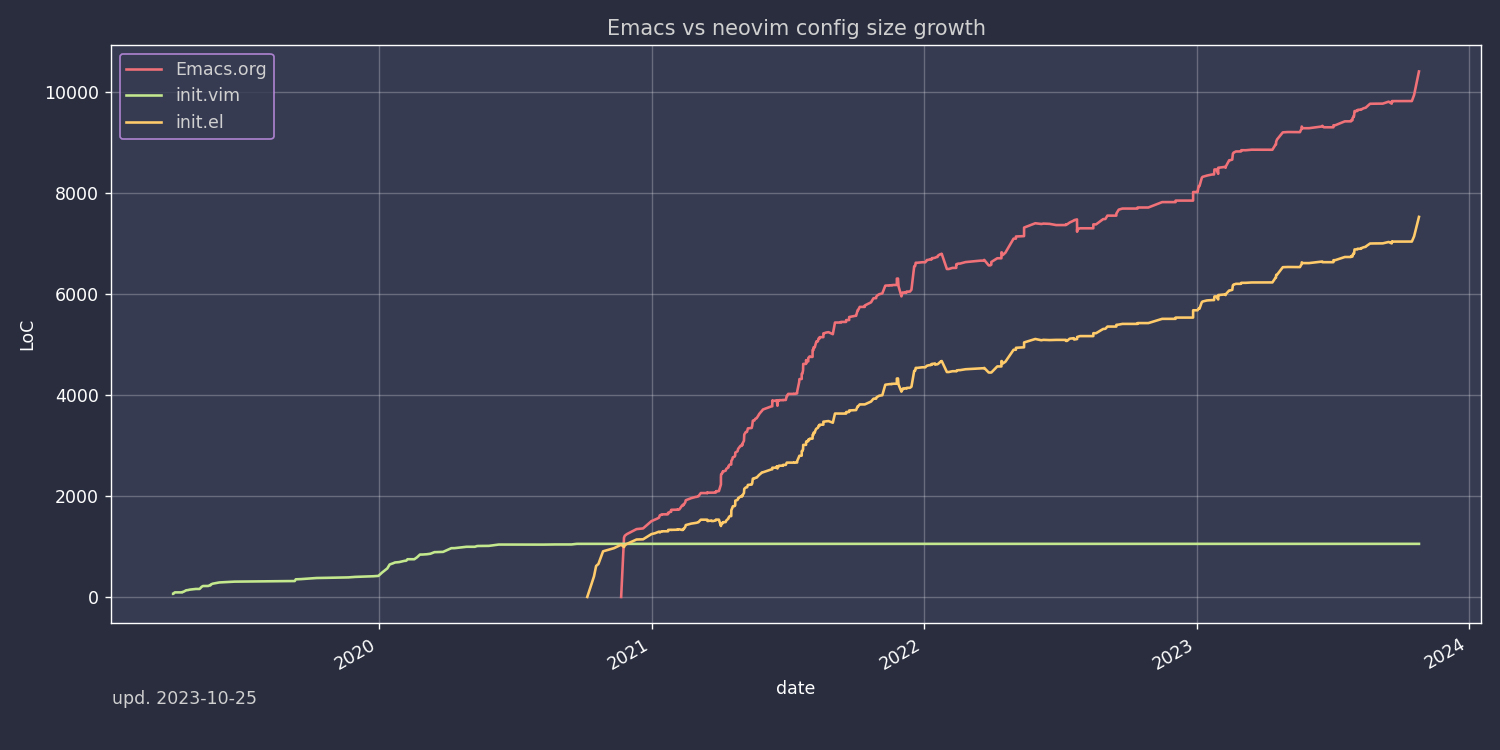
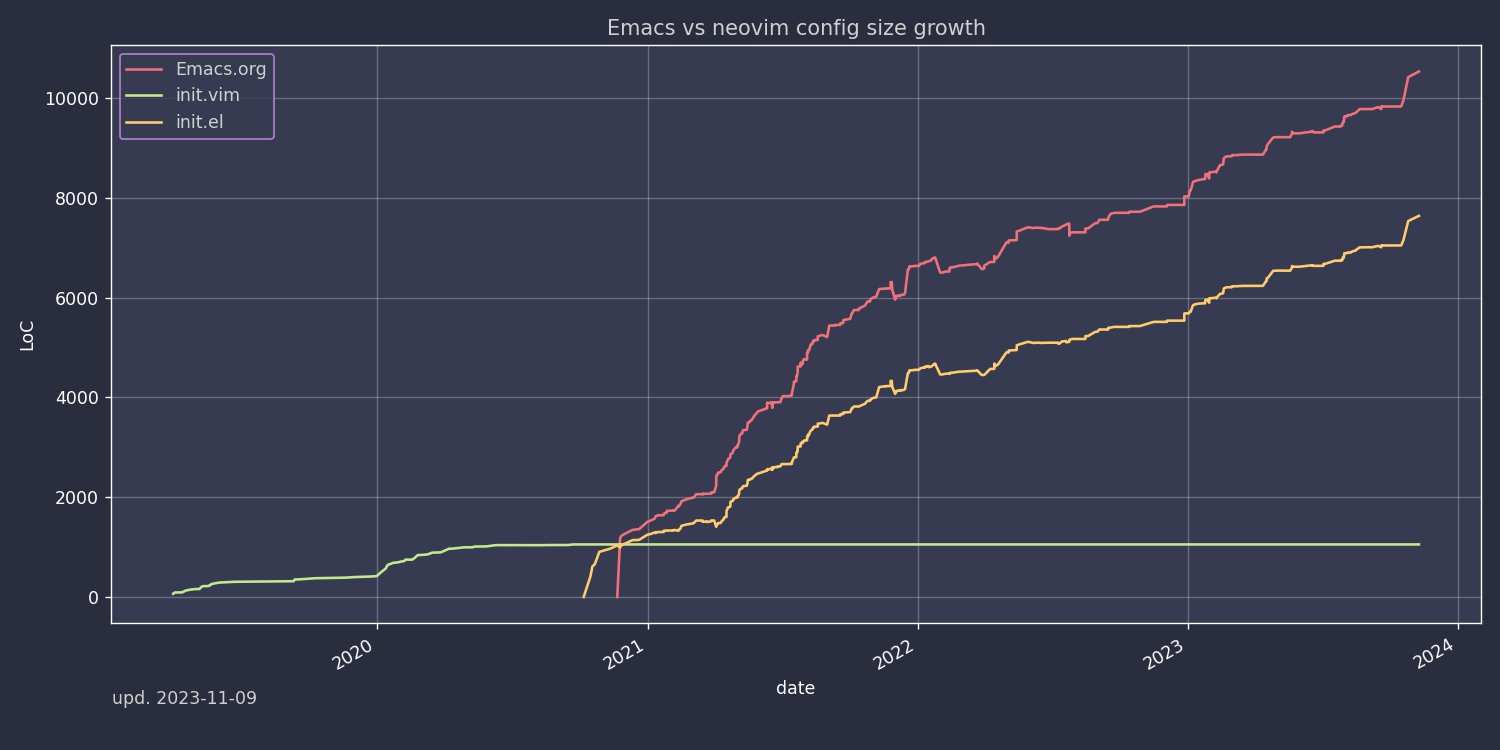
deploy: ec9d4f60e5a25ce1c0262b4c3c3db14015a5740e

diff --git a/configs/emacs/index.html b/configs/emacs/index.html
@@ -3562,7 +3562,19 @@ Emacs is also particularly great at writing Lisp code, e.g. Clojure, Common Lisp
 <!--listend-->
 <div class="highlight"><pre tabindex="0" style=";-moz-tab-size:4;-o-tab-size:4;tab-size:4;"><code class="language-emacs-lisp" data-lang="emacs-lisp"><span style="display:flex;"><span>(<span style="color:#008000">use-package</span> <span style="color:#19177c">restclient</span>
 </span></span><span style="display:flex;"><span>  <span style="color:#008000">:if</span> (<span style="color:#19177c">not</span> <span style="color:#19177c">my/remote-server</span>)
-</span></span><span style="display:flex;"><span>  <span style="color:#008000">:straight</span> <span style="color:#800">t</span>)
+</span></span><span style="display:flex;"><span>  <span style="color:#008000">:straight</span> <span style="color:#800">t</span>
+</span></span><span style="display:flex;"><span>  <span style="color:#008000">:config</span>
+</span></span><span style="display:flex;"><span>  (<span style="color:#19177c">general-define-key</span>
+</span></span><span style="display:flex;"><span>   <span style="color:#008000">:keymaps</span> <span style="color:#19177c">&#39;restclient-mode-map</span>
+</span></span><span style="display:flex;"><span>   <span style="color:#008000">:states</span> <span style="color:#666">&#39;</span>(<span style="color:#19177c">normal</span> <span style="color:#19177c">visual</span>)
+</span></span><span style="display:flex;"><span>   <span style="color:#ba2121">&#34;RET&#34;</span> <span style="color:#00f">#&#39;</span><span style="color:#19177c">restclient-http-send-current</span>
+</span></span><span style="display:flex;"><span>   <span style="color:#ba2121">&#34;M-RET&#34;</span> <span style="color:#00f">#&#39;</span><span style="color:#19177c">restclient-http-send-current-stay-in-window</span>
+</span></span><span style="display:flex;"><span>   <span style="color:#ba2121">&#34;y&#34;</span> <span style="color:#800">nil</span>
+</span></span><span style="display:flex;"><span>   <span style="color:#ba2121">&#34;M-y&#34;</span> <span style="color:#00f">#&#39;</span><span style="color:#19177c">restclient-copy-curl-command</span>)
+</span></span><span style="display:flex;"><span>  (<span style="color:#19177c">general-define-key</span>
+</span></span><span style="display:flex;"><span>   <span style="color:#008000">:keymaps</span> <span style="color:#19177c">&#39;restclient-response-mode-map</span>
+</span></span><span style="display:flex;"><span>   <span style="color:#008000">:states</span> <span style="color:#666">&#39;</span>(<span style="color:#19177c">normal</span> <span style="color:#19177c">visual</span>)
+</span></span><span style="display:flex;"><span>   <span style="color:#ba2121">&#34;q&#34;</span> <span style="color:#00f">#&#39;</span><span style="color:#19177c">quit-window</span>))
 </span></span><span style="display:flex;"><span>
 </span></span><span style="display:flex;"><span>(<span style="color:#008000">use-package</span> <span style="color:#19177c">ob-restclient</span>
 </span></span><span style="display:flex;"><span>  <span style="color:#008000">:after</span> (<span style="color:#19177c">org</span> <span style="color:#19177c">restclient</span>)
@@ -4254,7 +4266,51 @@ Emacs is also particularly great at writing Lisp code, e.g. Clojure, Common Lisp
 </span></span><span style="display:flex;"><span>  (<span style="color:#19177c">advice-add</span> <span style="color:#00f">#&#39;</span><span style="color:#19177c">org-ql-view--format-element</span> <span style="color:#008000">:override</span> <span style="color:#00f">#&#39;</span><span style="color:#19177c">my/org-ql-view--format-element-override</span>))
 </span></span></code></pre></div><h5 id="aggregate-clocked-time">Aggregate clocked time</h5>
 <p>This turned out to be kinda complicated&hellip; I want to produce a report that aggregates my clocked time. Maybe I&rsquo;ll extract the below into a separate package, but it&rsquo;s so tightly bound to my needs so I&rsquo;m not sure if there&rsquo;s any value in it.</p>
-<p>First, in order to implement the aggregation I need a function to process alists:</p>
+<p>Work-in-progress.</p>
+<div class="highlight"><pre tabindex="0" style=";-moz-tab-size:4;-o-tab-size:4;tab-size:4;"><code class="language-emacs-lisp" data-lang="emacs-lisp"><span style="display:flex;"><span>(<span style="color:#008000">defun</span> <span style="color:#19177c">my/org-ql--get-clock-data-parse-buffer</span> ()
+</span></span><span style="display:flex;"><span>  (<span style="color:#008000">let</span> (<span style="color:#19177c">res</span>)
+</span></span><span style="display:flex;"><span>    (<span style="color:#19177c">org-element-map</span> (<span style="color:#19177c">org-element-parse-buffer</span>) <span style="color:#19177c">&#39;clock</span>
+</span></span><span style="display:flex;"><span>      (<span style="color:#008000">lambda</span> (<span style="color:#19177c">clock</span>)
+</span></span><span style="display:flex;"><span>	(<span style="color:#008000">let</span> ((<span style="color:#19177c">start</span> (<span style="color:#19177c">time-convert</span>
+</span></span><span style="display:flex;"><span>		      (<span style="color:#19177c">org-timestamp-to-time</span> (<span style="color:#19177c">org-element-property</span> <span style="color:#008000">:value</span> <span style="color:#19177c">clock</span>))
+</span></span><span style="display:flex;"><span>		      <span style="color:#19177c">&#39;integer</span>))
+</span></span><span style="display:flex;"><span>	      (<span style="color:#19177c">end</span> (<span style="color:#19177c">time-convert</span>
+</span></span><span style="display:flex;"><span>		    (<span style="color:#19177c">org-timestamp-to-time</span> (<span style="color:#19177c">org-element-property</span> <span style="color:#008000">:value</span> <span style="color:#19177c">clock</span>) <span style="color:#800">t</span>)
+</span></span><span style="display:flex;"><span>		    <span style="color:#19177c">&#39;integer</span>)))
+</span></span><span style="display:flex;"><span>	  (<span style="color:#008000">save-excursion</span>
+</span></span><span style="display:flex;"><span>	    (<span style="color:#19177c">org-back-to-heading</span> <span style="color:#800">t</span>)
+</span></span><span style="display:flex;"><span>	    (<span style="color:#008000">let*</span> ((<span style="color:#19177c">headline</span> (<span style="color:#19177c">org-element-at-point-no-context</span>))
+</span></span><span style="display:flex;"><span>		   (<span style="color:#19177c">tags-val</span> (<span style="color:#19177c">org-ql--tags-at</span> (<span style="color:#00f">point</span>)))
+</span></span><span style="display:flex;"><span>		   (<span style="color:#19177c">tags</span> (<span style="color:#19177c">seq-filter</span>
+</span></span><span style="display:flex;"><span>			  <span style="color:#00f">#&#39;stringp</span> <span style="color:#408080;font-style:italic">;; to filter out `org-ql-nil&#39;</span>
+</span></span><span style="display:flex;"><span>			  (<span style="color:#00f">append</span> (<span style="color:#008000">unless</span> (<span style="color:#00f">eq</span> (<span style="color:#00f">car</span> <span style="color:#19177c">tags-val</span>) <span style="color:#19177c">&#39;org-ql-nil</span>)
+</span></span><span style="display:flex;"><span>				    (<span style="color:#00f">car</span> <span style="color:#19177c">tags-val</span>))
+</span></span><span style="display:flex;"><span>				  (<span style="color:#008000">unless</span> (<span style="color:#00f">eq</span> (<span style="color:#00f">cdr</span> <span style="color:#19177c">tags-val</span>) <span style="color:#19177c">&#39;org-ql-nil</span>)
+</span></span><span style="display:flex;"><span>				    (<span style="color:#00f">cdr</span> <span style="color:#19177c">tags-val</span>)))))
+</span></span><span style="display:flex;"><span>		   (<span style="color:#19177c">filename</span> (<span style="color:#19177c">f-filename</span>
+</span></span><span style="display:flex;"><span>			      (<span style="color:#00f">buffer-file-name</span>)))
+</span></span><span style="display:flex;"><span>		   (<span style="color:#19177c">outline-path</span> (<span style="color:#00f">mapcar</span>
+</span></span><span style="display:flex;"><span>				  <span style="color:#00f">#&#39;substring-no-properties</span>
+</span></span><span style="display:flex;"><span>				  (<span style="color:#19177c">org-ql--outline-path</span>)))
+</span></span><span style="display:flex;"><span>		   (<span style="color:#19177c">category</span> (<span style="color:#19177c">org-get-category</span>)))
+</span></span><span style="display:flex;"><span>	      (<span style="color:#008000">push</span>
+</span></span><span style="display:flex;"><span>	       <span style="color:#666">`</span>((<span style="color:#008000">:start</span> <span style="color:#666">.</span> <span style="color:#666">,</span><span style="color:#19177c">start</span>)
+</span></span><span style="display:flex;"><span>		 (<span style="color:#008000">:end</span> <span style="color:#666">.</span> <span style="color:#666">,</span><span style="color:#19177c">end</span>)
+</span></span><span style="display:flex;"><span>		 (<span style="color:#008000">:headline</span> <span style="color:#666">.</span> <span style="color:#666">,</span><span style="color:#19177c">headline</span>)
+</span></span><span style="display:flex;"><span>		 (<span style="color:#008000">:tags</span> <span style="color:#666">.</span> <span style="color:#666">,</span><span style="color:#19177c">tags</span>)
+</span></span><span style="display:flex;"><span>		 (<span style="color:#008000">:filename</span> <span style="color:#666">.</span> <span style="color:#666">,</span><span style="color:#19177c">filename</span>)
+</span></span><span style="display:flex;"><span>		 (<span style="color:#008000">:outline-path</span> <span style="color:#666">.</span> <span style="color:#666">,</span><span style="color:#19177c">outline-path</span>)
+</span></span><span style="display:flex;"><span>		 (<span style="color:#008000">:category</span> <span style="color:#666">.</span> <span style="color:#666">,</span><span style="color:#19177c">category</span>))
+</span></span><span style="display:flex;"><span>	       <span style="color:#19177c">res</span>))))))
+</span></span><span style="display:flex;"><span>    <span style="color:#19177c">res</span>))
+</span></span><span style="display:flex;"><span>
+</span></span><span style="display:flex;"><span>(<span style="color:#008000">defun</span> <span style="color:#19177c">my/org-ql--get-clock-data</span> ()
+</span></span><span style="display:flex;"><span>  (<span style="color:#008000">let</span> (<span style="color:#19177c">res</span>)
+</span></span><span style="display:flex;"><span>    (<span style="color:#008000">dolist</span> (<span style="color:#19177c">file</span> (<span style="color:#19177c">org-agenda-files</span>))
+</span></span><span style="display:flex;"><span>      (<span style="color:#008000">with-current-buffer</span> (<span style="color:#19177c">find-file-noselect</span> <span style="color:#19177c">file</span>)
+</span></span><span style="display:flex;"><span>	(<span style="color:#008000">setq</span> <span style="color:#19177c">res</span> (<span style="color:#00f">append</span> <span style="color:#19177c">res</span> (<span style="color:#19177c">my/org-ql--get-clock-data-parse-buffer</span>)))))
+</span></span><span style="display:flex;"><span>    <span style="color:#19177c">res</span>))
+</span></span></code></pre></div><p>A function to aggregate on alists:</p>
 <div class="highlight"><pre tabindex="0" style=";-moz-tab-size:4;-o-tab-size:4;tab-size:4;"><code class="language-emacs-lisp" data-lang="emacs-lisp"><span style="display:flex;"><span>(<span style="color:#008000">defun</span> <span style="color:#19177c">my/alist-agg</span> (<span style="color:#19177c">path</span> <span style="color:#19177c">alist</span> <span style="color:#19177c">value</span>)
 </span></span><span style="display:flex;"><span>  <span style="color:#ba2121">&#34;Traverse ALIST by PATH, adding VALUE to each node.
 </span></span></span><span style="display:flex;"><span><span style="color:#ba2121">
@@ -4497,6 +4553,12 @@ Emacs is also particularly great at writing Lisp code, e.g. Clojure, Common Lisp
 </span></span><span style="display:flex;"><span>		   (<span style="color:#19177c">org-ql--add-markers</span>
 </span></span><span style="display:flex;"><span>		    (<span style="color:#19177c">org-element-at-point</span>)))))
 </span></span><span style="display:flex;"><span>    (<span style="color:#19177c">my/org-ql-meeting-tasks</span> <span style="color:#19177c">meeting</span>)))
+</span></span><span style="display:flex;"><span>
+</span></span><span style="display:flex;"><span>(<span style="color:#008000">with-eval-after-load</span> <span style="color:#19177c">&#39;org-agenda</span>
+</span></span><span style="display:flex;"><span>  (<span style="color:#19177c">general-define-key</span>
+</span></span><span style="display:flex;"><span>   <span style="color:#008000">:keymaps</span> <span style="color:#19177c">&#39;org-agenda-mode-map</span>
+</span></span><span style="display:flex;"><span>   <span style="color:#008000">:states</span> <span style="color:#666">&#39;</span>(<span style="color:#19177c">normal</span> <span style="color:#19177c">motion</span>)
+</span></span><span style="display:flex;"><span>   <span style="color:#ba2121">&#34;gm&#34;</span> <span style="color:#00f">#&#39;</span><span style="color:#19177c">my/org-ql-meeting-tasks-agenda</span>))
 </span></span></code></pre></div><h5 id="tracking-habits">Tracking habits</h5>
 <p>Let&rsquo;s see how this goes.</p>
 <p>References:</p>
@@ -8392,6 +8454,44 @@ Some other optimization settings:</p>
 </span></span><span style="display:flex;"><span>		  <span style="color:#19177c">&#39;telega-image-mode</span> <span style="color:#19177c">&#39;telega-webpage-mode</span>))
 </span></span><span style="display:flex;"><span>
 </span></span><span style="display:flex;"><span>(<span style="color:#008000">setq</span> <span style="color:#19177c">telega-online-status-function</span> <span style="color:#00f">#&#39;</span><span style="color:#19177c">my/telega-online-status</span>)
+</span></span></code></pre></div><p>Switch to topic in forum chats.</p>
+<div class="highlight"><pre tabindex="0" style=";-moz-tab-size:4;-o-tab-size:4;tab-size:4;"><code class="language-emacs-lisp" data-lang="emacs-lisp"><span style="display:flex;"><span>(<span style="color:#008000">defun</span> <span style="color:#19177c">my/telega-switch-to-topic</span> ()
+</span></span><span style="display:flex;"><span>  (<span style="color:#008000">interactive</span>)
+</span></span><span style="display:flex;"><span>  (<span style="color:#008000">let*</span> ((<span style="color:#19177c">topics-data</span> (<span style="color:#00f">gethash</span>
+</span></span><span style="display:flex;"><span>		       (<span style="color:#00f">plist-get</span> <span style="color:#19177c">telega-chatbuf--chat</span> <span style="color:#008000">:id</span>)
+</span></span><span style="display:flex;"><span>		       <span style="color:#19177c">telega--chat-topics</span>))
+</span></span><span style="display:flex;"><span>	 (<span style="color:#19177c">topics-string</span>
+</span></span><span style="display:flex;"><span>	  (<span style="color:#00f">mapcar</span>
+</span></span><span style="display:flex;"><span>	   (<span style="color:#008000">lambda</span> (<span style="color:#19177c">topic</span>)
+</span></span><span style="display:flex;"><span>	     (<span style="color:#008000">let*</span> ((<span style="color:#19177c">name</span> (<span style="color:#00f">plist-get</span> (<span style="color:#00f">plist-get</span> <span style="color:#19177c">topic</span> <span style="color:#008000">:info</span>) <span style="color:#008000">:name</span>))
+</span></span><span style="display:flex;"><span>		    (<span style="color:#19177c">unread-count</span> (<span style="color:#00f">plist-get</span> <span style="color:#19177c">topic</span> <span style="color:#008000">:unread_count</span>))
+</span></span><span style="display:flex;"><span>		    (<span style="color:#19177c">name-string</span> (<span style="color:#008000">with-temp-buffer</span>
+</span></span><span style="display:flex;"><span>				   (<span style="color:#19177c">telega-ins--topic-title</span> <span style="color:#19177c">topic</span> <span style="color:#19177c">&#39;with-icon</span>)
+</span></span><span style="display:flex;"><span>				   (<span style="color:#00f">buffer-string</span>))))
+</span></span><span style="display:flex;"><span>	       (<span style="color:#008000">if</span> (<span style="color:#19177c">zerop</span> <span style="color:#19177c">unread-count</span>)
+</span></span><span style="display:flex;"><span>		   <span style="color:#19177c">name-string</span>
+</span></span><span style="display:flex;"><span>		 (<span style="color:#00f">format</span> <span style="color:#ba2121">&#34;%-40s (%s)&#34;</span>
+</span></span><span style="display:flex;"><span>			 <span style="color:#19177c">name-string</span>
+</span></span><span style="display:flex;"><span>			 (<span style="color:#00f">propertize</span> (<span style="color:#00f">format</span> <span style="color:#ba2121">&#34;%d&#34;</span> <span style="color:#19177c">unread-count</span>)
+</span></span><span style="display:flex;"><span>				     <span style="color:#19177c">&#39;face</span> <span style="color:#19177c">&#39;telega-unread-unmuted-modeline</span>)))))
+</span></span><span style="display:flex;"><span>	   <span style="color:#19177c">topics-data</span>))
+</span></span><span style="display:flex;"><span>	 (<span style="color:#19177c">topics-collection</span> (<span style="color:#008000">cl-loop</span> <span style="color:#19177c">for</span> <span style="color:#19177c">datum</span> <span style="color:#19177c">in</span> <span style="color:#19177c">topics-data</span>
+</span></span><span style="display:flex;"><span>				     <span style="color:#19177c">for</span> <span style="color:#00f">string</span> <span style="color:#19177c">in</span> <span style="color:#19177c">topics-string</span>
+</span></span><span style="display:flex;"><span>				     <span style="color:#19177c">collect</span> (<span style="color:#00f">cons</span> <span style="color:#00f">string</span> <span style="color:#19177c">datum</span>)))
+</span></span><span style="display:flex;"><span>	 (<span style="color:#19177c">topic</span> (<span style="color:#00f">completing-read</span> <span style="color:#ba2121">&#34;Topic: &#34;</span> <span style="color:#19177c">topics-collection</span> <span style="color:#800">nil</span> <span style="color:#800">t</span>)))
+</span></span><span style="display:flex;"><span>    (<span style="color:#19177c">telega-chat--goto-thread</span>
+</span></span><span style="display:flex;"><span>     <span style="color:#19177c">telega-chatbuf--chat</span>
+</span></span><span style="display:flex;"><span>     (<span style="color:#00f">plist-get</span>
+</span></span><span style="display:flex;"><span>      (<span style="color:#00f">plist-get</span>
+</span></span><span style="display:flex;"><span>       (<span style="color:#19177c">alist-get</span> <span style="color:#19177c">topic</span> <span style="color:#19177c">topics-collection</span> <span style="color:#800">nil</span> <span style="color:#800">nil</span> <span style="color:#00f">#&#39;equal</span>)
+</span></span><span style="display:flex;"><span>       <span style="color:#008000">:info</span>)
+</span></span><span style="display:flex;"><span>      <span style="color:#008000">:message_thread_id</span>))))
+</span></span><span style="display:flex;"><span>
+</span></span><span style="display:flex;"><span>(<span style="color:#008000">with-eval-after-load</span> <span style="color:#19177c">&#39;telega</span>
+</span></span><span style="display:flex;"><span>  (<span style="color:#19177c">general-define-key</span>
+</span></span><span style="display:flex;"><span>   <span style="color:#008000">:states</span> <span style="color:#666">&#39;</span>(<span style="color:#19177c">normal</span>)
+</span></span><span style="display:flex;"><span>   <span style="color:#008000">:keymaps</span> <span style="color:#19177c">&#39;telega-chat-mode-map</span>
+</span></span><span style="display:flex;"><span>   <span style="color:#ba2121">&#34;T&#34;</span> <span style="color:#00f">#&#39;</span><span style="color:#19177c">my/telega-switch-to-topic</span>))
 </span></span></code></pre></div><h4 id="google-translate">Google Translate</h4>
 <p>Emacs interface to Google Translate.</p>
 <p>Can&rsquo;t make it load lazily for some strange reason.</p>
@@ -8724,6 +8824,9 @@ Some other optimization settings:</p>
 </span></span><span style="display:flex;"><span>
 </span></span><span style="display:flex;"><span>(<span style="color:#008000">defun</span> <span style="color:#19177c">my/elcord-update-presence-mask-advice</span> (<span style="color:#19177c">r</span>)
 </span></span><span style="display:flex;"><span>  (<span style="color:#00f">list</span> (<span style="color:#19177c">my/elcord-mask-buffer-name</span> (<span style="color:#00f">nth</span> <span style="color:#666">0</span> <span style="color:#19177c">r</span>)) (<span style="color:#00f">nth</span> <span style="color:#666">1</span> <span style="color:#19177c">r</span>)))
+</span></span></code></pre></div><p>Create a symlink for flatpak:</p>
+<div class="highlight"><pre tabindex="0" style=";-moz-tab-size:4;-o-tab-size:4;tab-size:4;"><code class="language-emacs-lisp" data-lang="emacs-lisp"><span style="display:flex;"><span>(<span style="color:#008000">defun</span> <span style="color:#19177c">my/elcord-symlink</span> ()
+</span></span><span style="display:flex;"><span>  (<span style="color:#19177c">shell-command-to-string</span> <span style="color:#ba2121">&#34;bash -c &#39;ln -sf {app/com.discordapp.Discord,$XDG_RUNTIME_DIR}/discord-ipc-0 &amp;&#39;&#34;</span>))
 </span></span></code></pre></div><p>And the package configuration:</p>
 <div class="highlight"><pre tabindex="0" style=";-moz-tab-size:4;-o-tab-size:4;tab-size:4;"><code class="language-emacs-lisp" data-lang="emacs-lisp"><span style="display:flex;"><span>(<span style="color:#008000">use-package</span> <span style="color:#19177c">elcord</span>
 </span></span><span style="display:flex;"><span>  <span style="color:#008000">:straight</span> <span style="color:#800">t</span>
@@ -8738,7 +8841,8 @@ Some other optimization settings:</p>
 </span></span><span style="display:flex;"><span>  (<span style="color:#19177c">advice-add</span> <span style="color:#19177c">&#39;elcord--try-update-presence</span> <span style="color:#008000">:filter-args</span> <span style="color:#00f">#&#39;</span><span style="color:#19177c">my/elcord-update-presence-mask-advice</span>)
 </span></span><span style="display:flex;"><span>  (<span style="color:#19177c">add-to-list</span> <span style="color:#19177c">&#39;elcord-mode-text-alist</span> <span style="color:#666">&#39;</span>(<span style="color:#19177c">telega-chat-mode</span> <span style="color:#666">.</span> <span style="color:#ba2121">&#34;Telega Chat&#34;</span>))
 </span></span><span style="display:flex;"><span>  (<span style="color:#19177c">add-to-list</span> <span style="color:#19177c">&#39;elcord-mode-text-alist</span> <span style="color:#666">&#39;</span>(<span style="color:#19177c">telega-root-mode</span> <span style="color:#666">.</span> <span style="color:#ba2121">&#34;Telega Root&#34;</span>))
-</span></span><span style="display:flex;"><span>  (<span style="color:#19177c">elcord-mode</span>))
+</span></span><span style="display:flex;"><span>  (<span style="color:#19177c">elcord-mode</span>)
+</span></span><span style="display:flex;"><span>  (<span style="color:#19177c">my/elcord-symlink</span>))
 </span></span></code></pre></div><h4 id="snow">Snow</h4>
 <div class="highlight"><pre tabindex="0" style=";-moz-tab-size:4;-o-tab-size:4;tab-size:4;"><code class="language-emacs-lisp" data-lang="emacs-lisp"><span style="display:flex;"><span>(<span style="color:#008000">use-package</span> <span style="color:#19177c">snow</span>
 </span></span><span style="display:flex;"><span>  <span style="color:#008000">:straight</span> (<span style="color:#008000">:repo</span> <span style="color:#ba2121">&#34;alphapapa/snow.el&#34;</span> <span style="color:#008000">:host</span> <span style="color:#19177c">github</span>)

diff --git a/index.html b/index.html
@@ -1,6 +1,6 @@
 <!DOCTYPE html>
 <html lang=""><head>
-	<meta name="generator" content="Hugo 0.119.0">
+	<meta name="generator" content="Hugo 0.120.4">
     <meta charset="utf-8">
     <meta name="viewport" content="width=device-width, initial-scale=1, shrink-to-fit=no">
 

diff --git a/configs/console/index.html b/configs/console/index.html
@@ -879,6 +879,10 @@
 <td>Mount stuff over SSH</td>
 </tr>
 <tr>
+<td>lftp</td>
+<td>File transfer</td>
+</tr>
+<tr>
 <td>git-lfs</td>
 <td></td>
 </tr>
